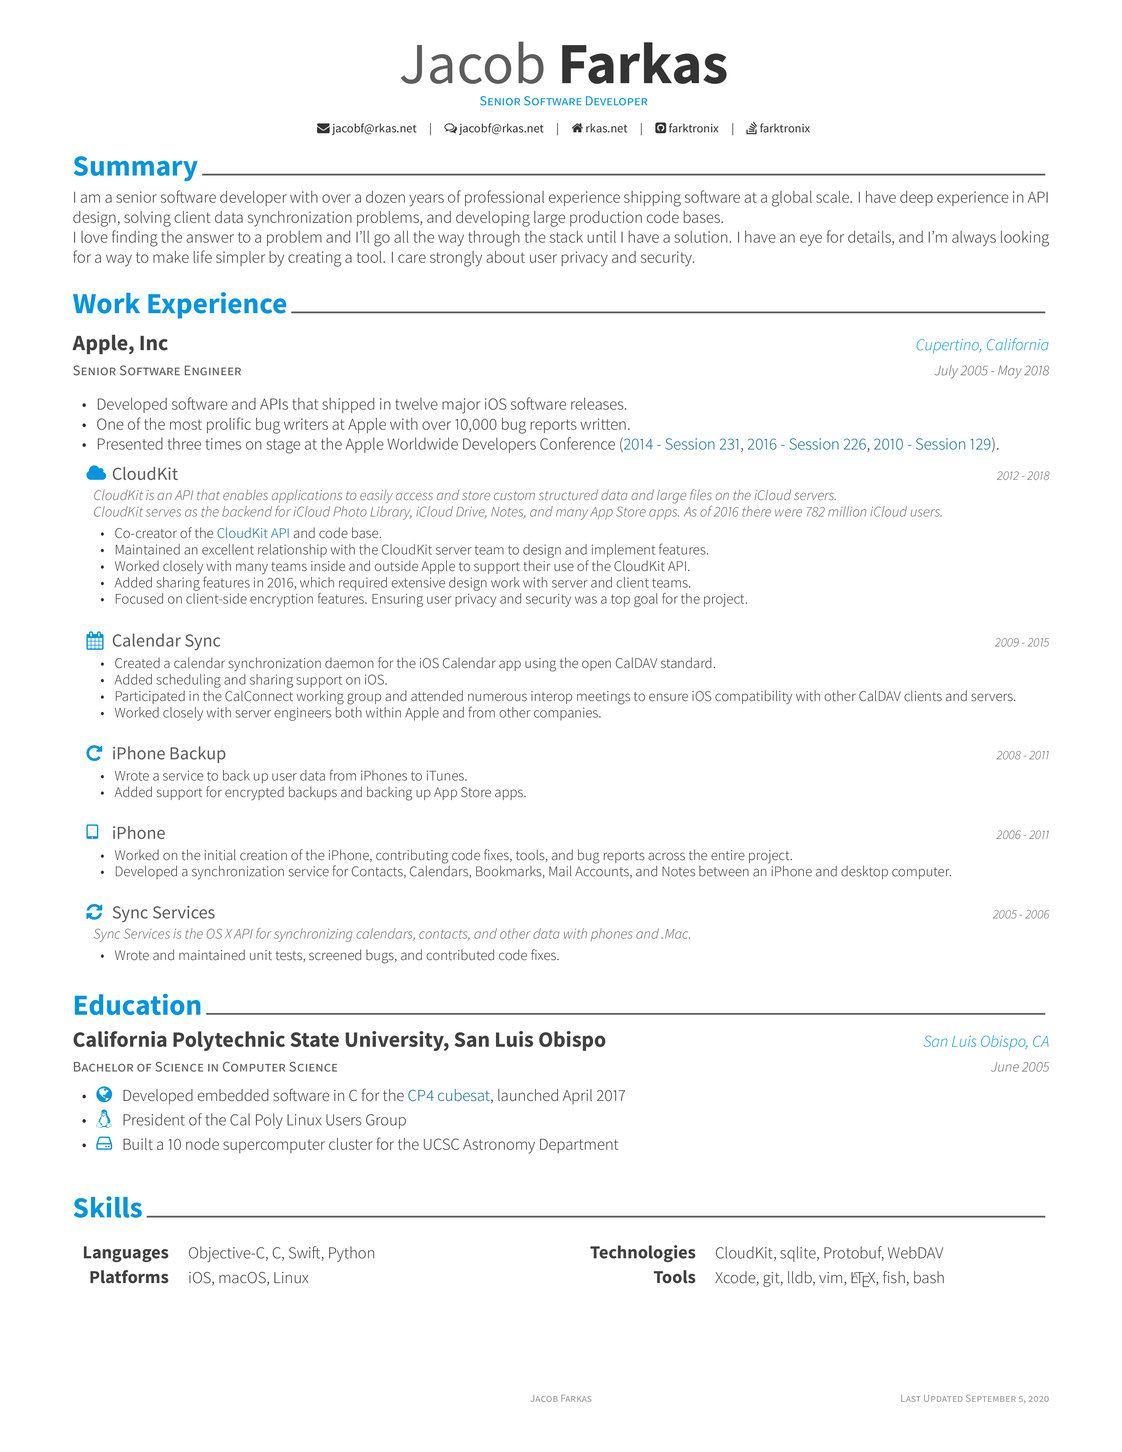
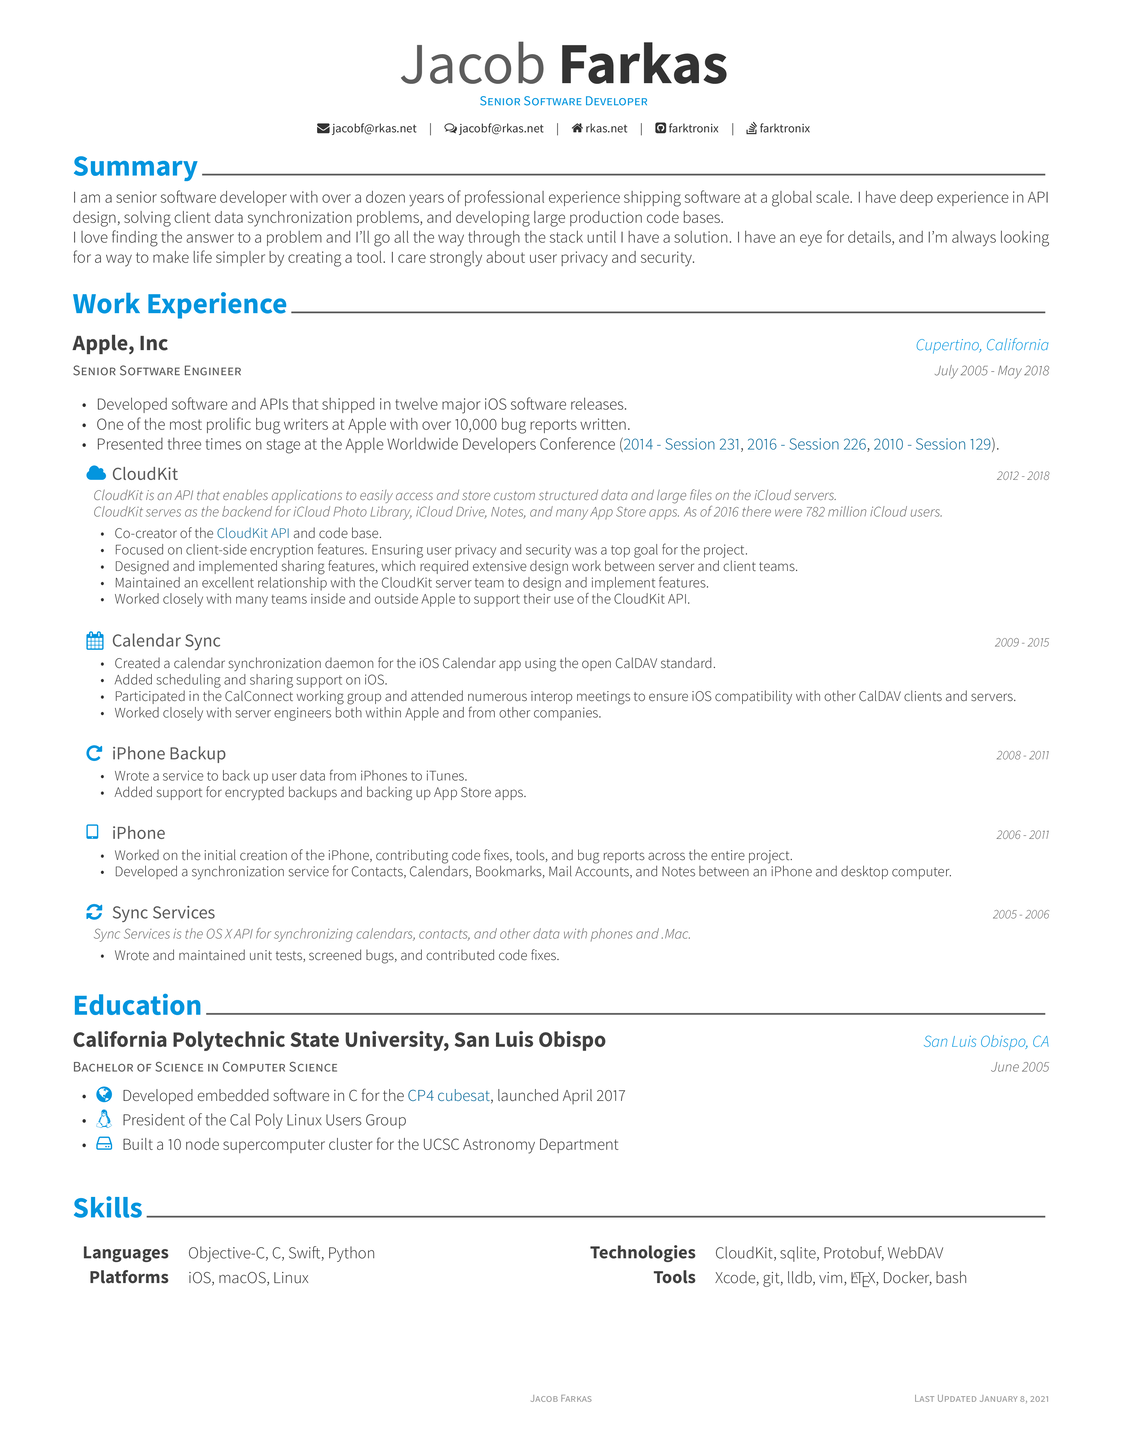
- Tweaked CloudKit work section - Fixed broken CP4 link - Added Docker experience

Changed region(s): [[0.0936, 0.3719, 0.6863, 0.4339], [0.7799, 0.8678, 0.8422, 0.8988]]

diff --git a/resume/experience.tex b/resume/experience.tex
@@ -31,10 +31,10 @@
        		{
 		\begin{cvitems}
          		\item {Co-creator of the \colorlink{https://developer.apple.com/documentation/cloudkit}{CloudKit API} and code base.}
-			\item {Maintained an excellent relationship with the CloudKit server team to design and implement features.}
+                \item {Focused on client-side encryption features. Ensuring user privacy and security was a top goal for the project.}
+         		\item {Designed and implemented sharing features, which required extensive design work between server and client teams.}
+		    	\item {Maintained an excellent relationship with the CloudKit server team to design and implement features.}
          		\item {Worked closely with many teams inside and outside Apple to support their use of the CloudKit API.}
-         		\item {Added sharing features in 2016, which required extensive design work with server and client teams.}
-			\item {Focused on client-side encryption features. Ensuring user privacy and security was a top goal for the project.}
          	 \end{cvitems}
         		}
 		\cvsubentry{\faCalendar}{Calendar Sync}{2009 - 2015}

diff --git a/resume/education.tex b/resume/education.tex
@@ -18,7 +18,7 @@
     {
       \begin{cvitems} % Description(s) bullet points
         \eduitem{\faGlobe}{Developed embedded software in C for the
-              {\colorlink{https://rkas.net/cp4}{CP4 cubesat}}, launched April 2017}
+              {\colorlink{https://cp4.rkas.net}{CP4 cubesat}}, launched April 2017}
         \eduitem{\faLinux}{President of the Cal Poly Linux Users Group}
         \eduitem{\faHddO}{Built a 10 node supercomputer cluster for the UCSC Astronomy Department}
       \end{cvitems}

diff --git a/resume/technologies.tex b/resume/technologies.tex
@@ -22,6 +22,6 @@
 	{CloudKit, sqlite, Protobuf, WebDAV}
 \cvskill
 	{Tools}
-	{Xcode, git, lldb, vim, \LaTeX{}, fish, bash}
+	{Xcode, git, lldb, vim, \LaTeX{}, Docker, bash}
 \end{cvskillgroup}
 \end{cvskills}
